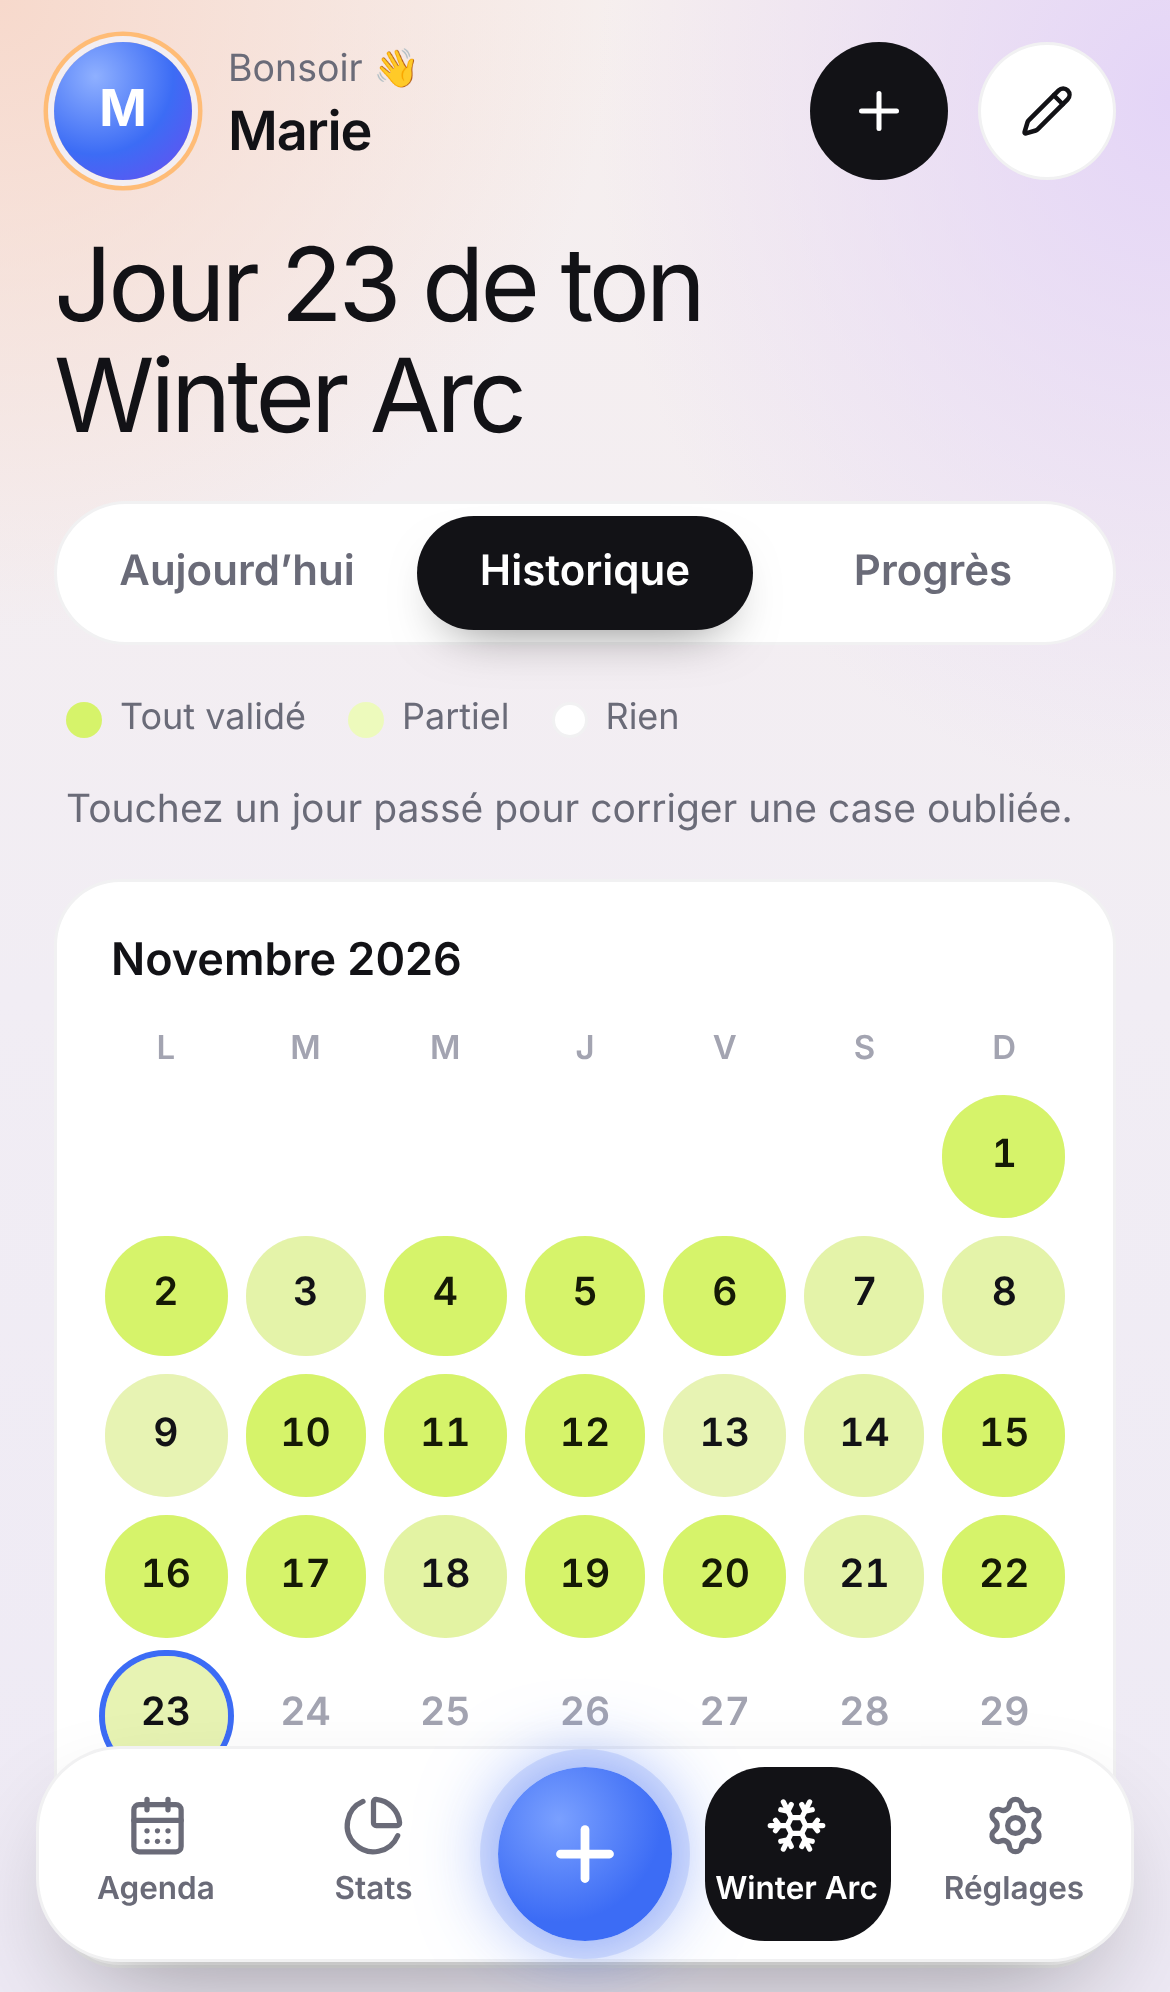
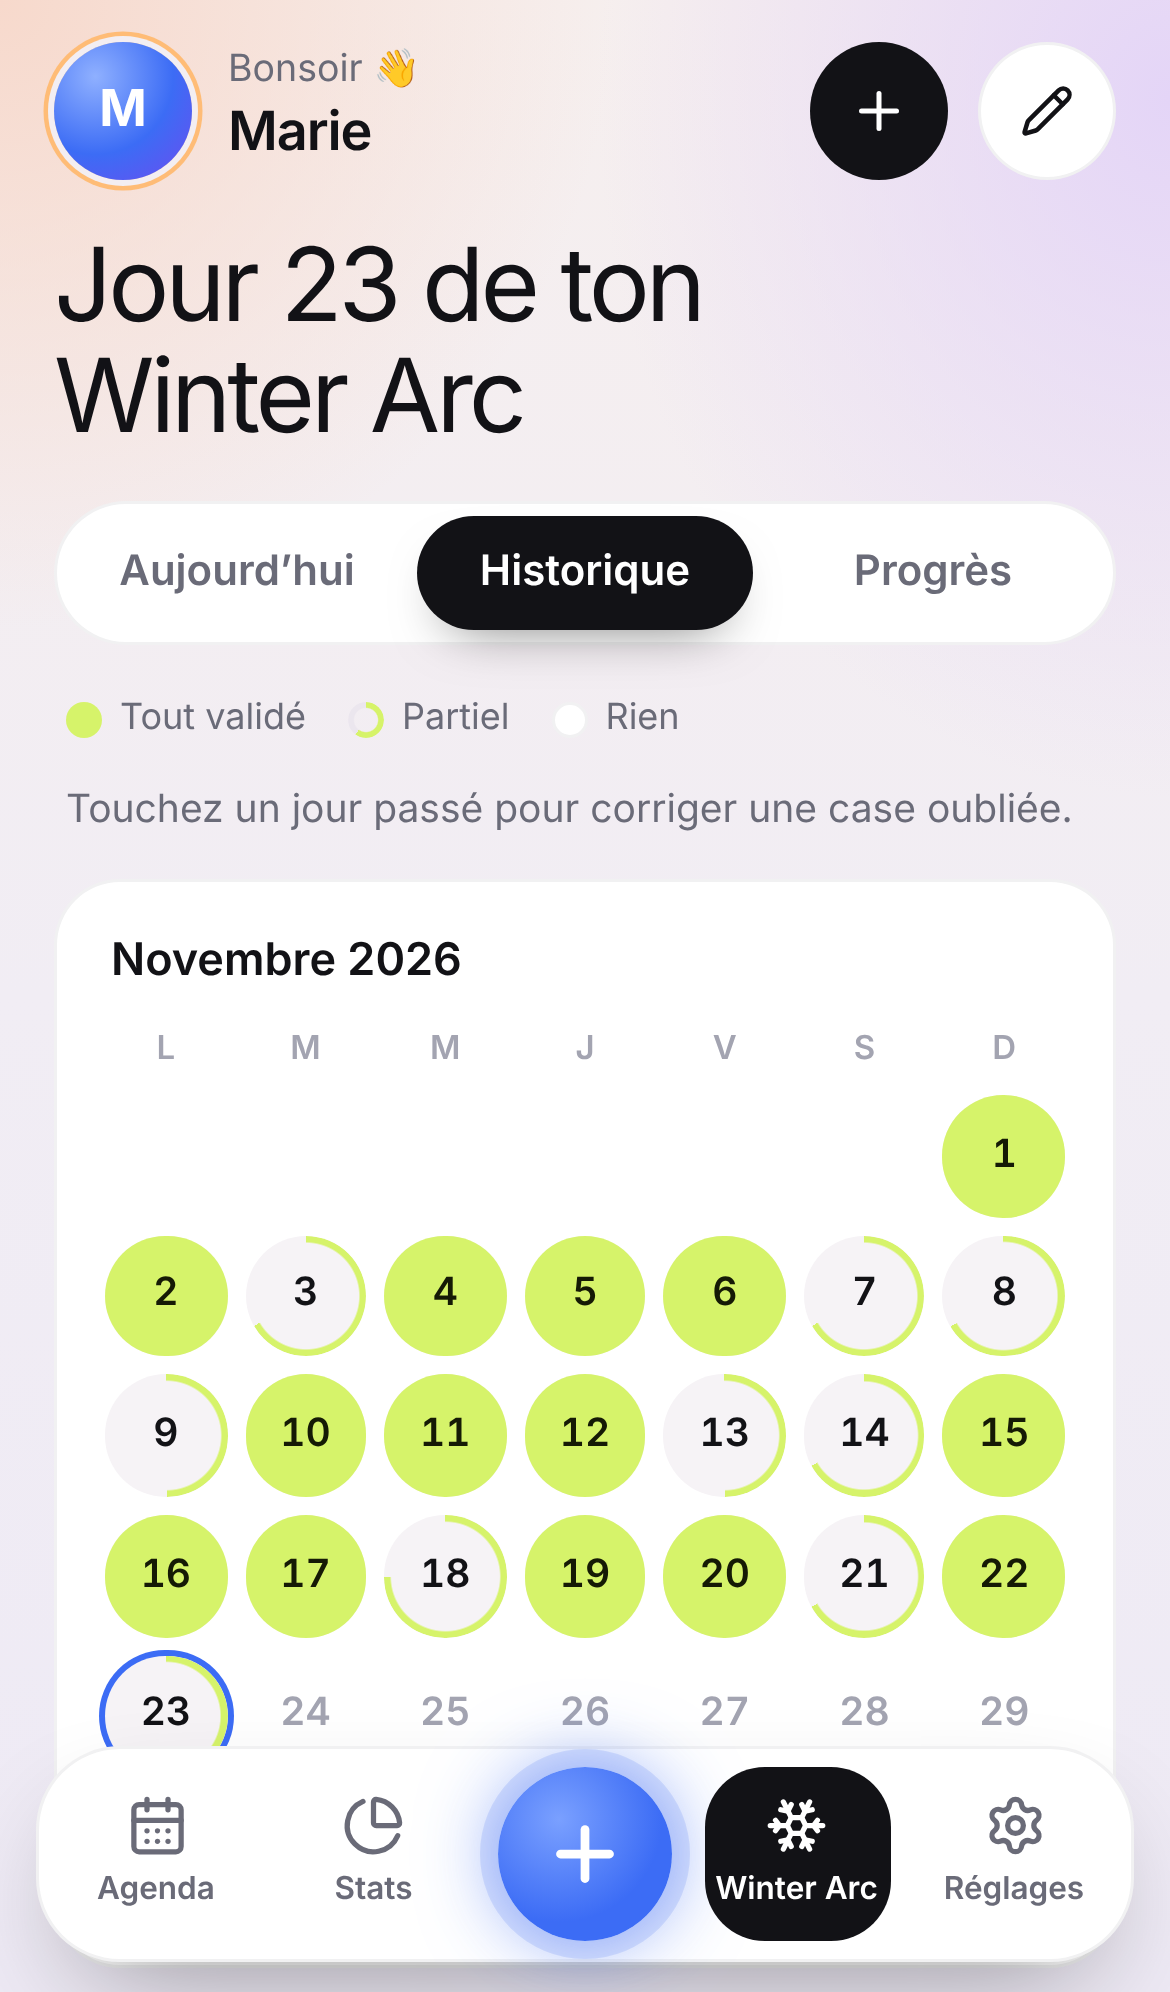
Historique en anneaux de progression, carte Progrès et éditeurs harmonisés
Claude-Session: https://claude.ai/code/session_01TofuY7GXjzUrAzcCedWBn2

diff --git a/src/screens/WinterArcScreen.tsx b/src/screens/WinterArcScreen.tsx
@@ -203,7 +203,7 @@ function HistoryView() {
     <>
       <div className="legend" style={{ margin: '0 4px 14px' }}>
         <span><i style={{ background: 'var(--lime)' }} /> Tout validé</span>
-        <span><i style={{ background: 'color-mix(in srgb, var(--lime) 45%, var(--surface))' }} /> Partiel</span>
+        <span><i className="partial" /> Partiel</span>
         <span><i style={{ background: 'var(--surface)', border: '1px solid var(--line)' }} /> Rien</span>
       </div>
       <p className="small muted" style={{ margin: '0 4px 14px' }}>Touchez un jour passé pour corriger une case oubliée.</p>
@@ -236,7 +236,8 @@ function HistoryView() {
                     onClick={() => ui.open({ type: 'habitDay', date: d })}
                     aria-label={`${labelDay(d)} : ${s.done} sur ${s.total}`}
                   >
-                    {inRange && !isFuture && ratio > 0 && <span className="fill" style={{ opacity: full ? 1 : 0.25 + ratio * 0.45 }} />}
+                    {inRange && !isFuture && ratio > 0 && !full && <span className="arc" style={{ ['--p' as any]: `${ratio * 100}%` }} />}
+                    {full && <span className="fill" />}
                     <span>{i + 1}</span>
                   </button>
                 );
@@ -261,17 +262,20 @@ function ProgressView() {
   return (
     <>
       <div className="hero">
-        <div className="row" style={{ justifyContent: 'space-between', alignItems: 'flex-end' }}>
-          <div>
-            <div className="muted small">Progression du challenge</div>
-            <div className="big-number" style={{ marginTop: 6 }}>{Math.round((p.dayIndex / p.totalDays) * 100)} %</div>
-          </div>
-          <div className="muted small" style={{ textAlign: 'right' }}>
-            {labelDate(state.challenge.startDate)} → {labelDate(state.challenge.endDate)}<br />
-            {remaining} jour{remaining > 1 ? 's' : ''} restant{remaining > 1 ? 's' : ''}
+        <div className="hero-title"><span>Progression du challenge</span></div>
+        <div className="hero-split">
+          <Ring value={p.dayIndex / p.totalDays} size={118} stroke={12}>
+            <div className="v">{Math.round((p.dayIndex / p.totalDays) * 100)} %</div>
+            <div className="s">du challenge</div>
+          </Ring>
+          <span className="divider" />
+          <div className="stat-list">
+            <div className="stat"><span className="ic"><CalendarClock size={15} /></span><div><div className="v">{p.dayIndex}/{p.totalDays}</div><div className="l">Jours écoulés</div></div></div>
+            <div className="stat"><span className="ic"><Hourglass size={15} /></span><div><div className="v">{remaining}</div><div className="l">Jours restants</div></div></div>
+            <div className="stat"><span className="ic"><Target size={15} /></span><div><div className="v" style={{ fontSize: 14 }}>{labelDate(state.challenge.endDate)}</div><div className="l">Fin du challenge</div></div></div>
           </div>
         </div>
-        <div className="progress" style={{ marginTop: 14 }}><i style={{ width: `${(p.dayIndex / p.totalDays) * 100}%` }} /></div>
+        <div className="progress" style={{ marginTop: 16 }}><i style={{ width: `${(p.dayIndex / p.totalDays) * 100}%` }} /></div>
       </div>
 
       <div className="kpis" style={{ marginTop: 12 }}>

diff --git a/src/screens/Editors.tsx b/src/screens/Editors.tsx
@@ -41,6 +41,7 @@ export function HabitEditor({ id, onClose }: { id?: string; onClose: () => void 
       <Sheet
         title={existing ? 'Modifier l’habitude' : 'Nouvelle habitude'}
         onClose={onClose}
+        onConfirm={save}
         footer={
           <>
             {existing && <button className="btn danger" aria-label="Supprimer" onClick={() => setConfirm(true)}><Trash2 size={18} /></button>}
@@ -49,10 +50,8 @@ export function HabitEditor({ id, onClose }: { id?: string; onClose: () => void 
         }
       >
         <div className="row" style={{ gap: 12 }}>
-          <span className="habit" style={{ ['--c' as any]: h.color, width: 'auto', padding: 0, margin: 0, background: 'none', border: 0 }}>
-            <span className="emo">{h.emoji}</span>
-          </span>
-          <input className="input big grow" placeholder="Nom (ex. Marcher)" value={h.name} autoFocus={!existing} onChange={(e) => set({ name: e.target.value })} />
+          <span className="emo-badge" style={{ ['--c' as any]: h.color }}>{h.emoji}</span>
+          <input className="input grow" placeholder="Nom (ex. Marcher)" value={h.name} autoFocus={!existing} onChange={(e) => set({ name: e.target.value })} />
         </div>
         <label className="field">
           <span className="label">Objectif</span>
@@ -134,7 +133,7 @@ export function ChallengeEditor({ onClose }: { onClose: () => void }) {
   }
 
   return (
-    <Sheet title="Mon challenge" onClose={onClose} footer={<button className="btn primary grow" onClick={save}><Check size={18} /> Enregistrer</button>}>
+    <Sheet title="Mon challenge" onClose={onClose} onConfirm={save} footer={<button className="btn primary grow" onClick={save}><Check size={18} /> Enregistrer</button>}>
       <label className="field">
         <span className="label">Nom</span>
         <input className="input" value={c.name} onChange={(e) => setC({ ...c, name: e.target.value })} />
@@ -177,6 +176,7 @@ export function CategoryEditor({ id, onClose }: { id?: string; onClose: () => vo
       <Sheet
         title={existing ? 'Catégorie' : 'Nouvelle catégorie'}
         onClose={onClose}
+        onConfirm={save}
         footer={
           <>
             {existing && <button className="btn danger" aria-label="Supprimer" onClick={() => setConfirm(true)}><Trash2 size={18} /></button>}

diff --git a/src/styles.css b/src/styles.css
@@ -543,3 +543,18 @@ input, textarea, select { font: inherit; color: inherit; }
 .screen.fixed .chip { height: 36px; font-size: 13.5px; padding: 0 14px; }
 .screen.fixed .strip-toggle { margin: 2px 0 0; }
 .screen.fixed .strip-toggle span { display: none; }
+
+/* Historique : anneau partiel autour du numéro, disque plein quand tout est validé */
+.cal .d { width: 100%; max-width: 42px; justify-self: center; }
+.cal .d .arc {
+  position: absolute; inset: 0; border-radius: 50%;
+  background: conic-gradient(var(--lime) var(--p), transparent 0);
+  -webkit-mask: radial-gradient(circle, transparent 62%, #000 64%); mask: radial-gradient(circle, transparent 62%, #000 64%);
+}
+.legend i.partial { background: conic-gradient(var(--lime) 60%, var(--surface-3) 0); -webkit-mask: radial-gradient(circle, transparent 45%, #000 50%); mask: radial-gradient(circle, transparent 45%, #000 50%); }
+
+/* Pastille emoji d'habitude */
+.emo-badge {
+  width: 52px; height: 52px; border-radius: 17px; flex: none; display: grid; place-items: center; font-size: 26px;
+  background: color-mix(in srgb, var(--c) 24%, var(--surface));
+}
